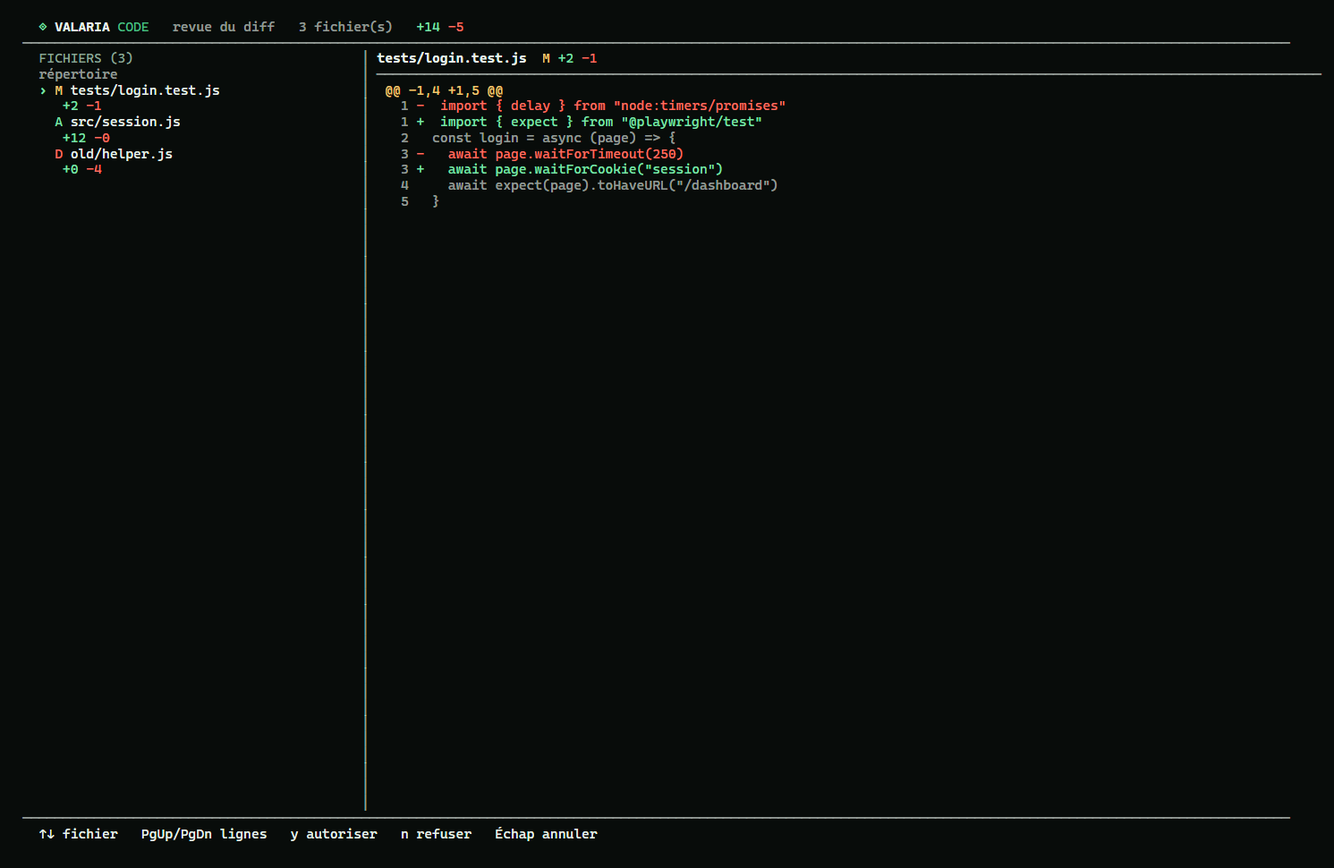
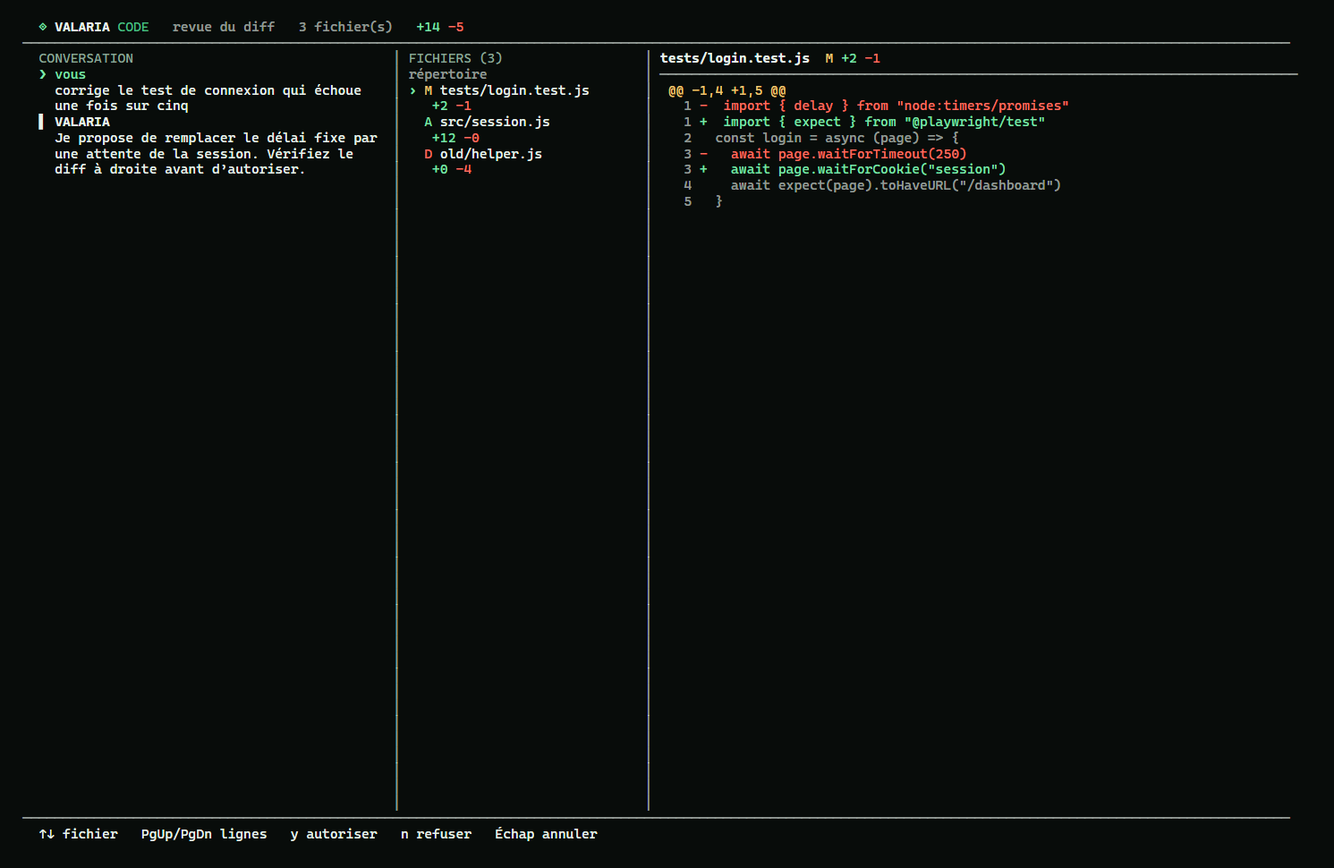
style(valaria-code): conversation visible pendant la revue de diff

Changed region(s): [[0.0309, 0.0619, 0.8021, 0.2474]]

diff --git a/docs/valaria-code-preview/diff-review-studio.html b/docs/valaria-code-preview/diff-review-studio.html
@@ -9,53 +9,53 @@
         color:#e8f3ec; background:#080c0a; white-space:pre; }
 </style></head><body><pre>  <span style="color:rgb(127,227,170)">◈</span> <span style="font-weight:700">VALARIA</span> <span style="color:rgb(72,189,130)">CODE</span>   <span style="opacity:.62">revue du diff</span>   <span style="opacity:.62">3 fichier(s)</span>   <span style="color:rgb(127,227,170)">+14</span> <span style="color:rgb(255,111,97)">−5</span>
 <span style="opacity:.62">─────────────────────────────────────────────────────────────────────────────────────────────────────────────────────────────────────────────────────────────────</span>
-  <span style="color:rgb(140,166,152)">COMPTE</span>                 <span style="opacity:.62">│</span> <span style="color:rgb(140,166,152)">FICHIERS (3)</span>                   <span style="opacity:.62">│</span> <span style="font-weight:700">tests/login.test.js</span>  <span style="color:rgb(240,198,116)">M</span> <span style="color:rgb(127,227,170)">+2</span> <span style="color:rgb(255,111,97)">−1</span>
-   <span style="font-weight:700">sossoukassim</span>          <span style="opacity:.62">│</span> <span style="opacity:.62">répertoire</span>                     <span style="opacity:.62">│</span> <span style="opacity:.62">─────────────────────────────────────────────────────────────────────────────────────────────────────────</span>
-   <span style="opacity:.62">pass Essai</span>            <span style="opacity:.62">│</span> <span style="color:rgb(127,227,170);font-weight:700">›</span> <span style="color:rgb(240,198,116)">M</span> tests/login.test.js        <span style="opacity:.62">│</span>  <span style="color:rgb(240,198,116)">@@ -1,4 +1,5 @@</span>
-                         <span style="opacity:.62">│</span>    <span style="color:rgb(127,227,170)">+2</span> <span style="color:rgb(255,111,97)">−1</span>                       <span style="opacity:.62">│</span> <span style="opacity:.62">   1</span> <span style="color:rgb(255,111,97)">−</span> <span style="color:rgb(255,111,97)"> import { delay } from "node:timers/promises"</span>
-  <span style="color:rgb(140,166,152)">REQUÊTES</span>               <span style="opacity:.62">│</span>   <span style="color:rgb(127,227,170)">A</span> src/session.js             <span style="opacity:.62">│</span> <span style="opacity:.62">   1</span> <span style="color:rgb(127,227,170)">+</span> <span style="color:rgb(127,227,170)"> import { expect } from "@playwright/test"</span>
-   <span style="color:rgb(93,135,105)">∞</span>                     <span style="opacity:.62">│</span>    <span style="color:rgb(127,227,170)">+12</span> <span style="color:rgb(255,111,97)">−0</span>                      <span style="opacity:.62">│</span> <span style="opacity:.62">   2</span>   <span style="opacity:.62">const login = async (page) =&gt; {</span>
-   <span style="opacity:.62">4 / ∞</span>                 <span style="opacity:.62">│</span>   <span style="color:rgb(255,111,97)">D</span> old/helper.js              <span style="opacity:.62">│</span> <span style="opacity:.62">   3</span> <span style="color:rgb(255,111,97)">−</span> <span style="color:rgb(255,111,97)">  await page.waitForTimeout(250)</span>
-                         <span style="opacity:.62">│</span>    <span style="color:rgb(127,227,170)">+0</span> <span style="color:rgb(255,111,97)">−4</span>                       <span style="opacity:.62">│</span> <span style="opacity:.62">   3</span> <span style="color:rgb(127,227,170)">+</span> <span style="color:rgb(127,227,170)">  await page.waitForCookie("session")</span>
-  <span style="color:rgb(140,166,152)">CRÉDIT</span>                 <span style="opacity:.62">│</span>                                <span style="opacity:.62">│</span> <span style="opacity:.62">   4</span>   <span style="opacity:.62">  await expect(page).toHaveURL("/dashboard")</span>
-   <span style="color:rgb(29,59,40)">░░░░░░░░░░░░</span>          <span style="opacity:.62">│</span>                                <span style="opacity:.62">│</span> <span style="opacity:.62">   5</span>   <span style="opacity:.62">}</span>
-   <span style="opacity:.62">0,04 $ / 1,13 $</span>       <span style="opacity:.62">│</span>                                <span style="opacity:.62">│</span> 
-                         <span style="opacity:.62">│</span>                                <span style="opacity:.62">│</span> 
-  <span style="color:rgb(140,166,152)">PASS</span>                   <span style="opacity:.62">│</span>                                <span style="opacity:.62">│</span> 
-   7 j                   <span style="opacity:.62">│</span>                                <span style="opacity:.62">│</span> 
-                         <span style="opacity:.62">│</span>                                <span style="opacity:.62">│</span> 
-  <span style="color:rgb(140,166,152)">MODÈLE</span>                 <span style="opacity:.62">│</span>                                <span style="opacity:.62">│</span> 
-   <span style="color:rgb(240,198,116)">claude-opus-5.5</span>       <span style="opacity:.62">│</span>                                <span style="opacity:.62">│</span> 
-  <span style="color:rgb(140,166,152)">MODE</span>                   <span style="opacity:.62">│</span>                                <span style="opacity:.62">│</span> 
-   agent                 <span style="opacity:.62">│</span>                                <span style="opacity:.62">│</span> 
-                         <span style="opacity:.62">│</span>                                <span style="opacity:.62">│</span> 
-                         <span style="opacity:.62">│</span>                                <span style="opacity:.62">│</span> 
-                         <span style="opacity:.62">│</span>                                <span style="opacity:.62">│</span> 
-                         <span style="opacity:.62">│</span>                                <span style="opacity:.62">│</span> 
-                         <span style="opacity:.62">│</span>                                <span style="opacity:.62">│</span> 
-                         <span style="opacity:.62">│</span>                                <span style="opacity:.62">│</span> 
-                         <span style="opacity:.62">│</span>                                <span style="opacity:.62">│</span> 
-                         <span style="opacity:.62">│</span>                                <span style="opacity:.62">│</span> 
-                         <span style="opacity:.62">│</span>                                <span style="opacity:.62">│</span> 
-                         <span style="opacity:.62">│</span>                                <span style="opacity:.62">│</span> 
-                         <span style="opacity:.62">│</span>                                <span style="opacity:.62">│</span> 
-                         <span style="opacity:.62">│</span>                                <span style="opacity:.62">│</span> 
-                         <span style="opacity:.62">│</span>                                <span style="opacity:.62">│</span> 
-                         <span style="opacity:.62">│</span>                                <span style="opacity:.62">│</span> 
-                         <span style="opacity:.62">│</span>                                <span style="opacity:.62">│</span> 
-                         <span style="opacity:.62">│</span>                                <span style="opacity:.62">│</span> 
-                         <span style="opacity:.62">│</span>                                <span style="opacity:.62">│</span> 
-                         <span style="opacity:.62">│</span>                                <span style="opacity:.62">│</span> 
-                         <span style="opacity:.62">│</span>                                <span style="opacity:.62">│</span> 
-                         <span style="opacity:.62">│</span>                                <span style="opacity:.62">│</span> 
-                         <span style="opacity:.62">│</span>                                <span style="opacity:.62">│</span> 
-                         <span style="opacity:.62">│</span>                                <span style="opacity:.62">│</span> 
-                         <span style="opacity:.62">│</span>                                <span style="opacity:.62">│</span> 
-                         <span style="opacity:.62">│</span>                                <span style="opacity:.62">│</span> 
-                         <span style="opacity:.62">│</span>                                <span style="opacity:.62">│</span> 
-                         <span style="opacity:.62">│</span>                                <span style="opacity:.62">│</span> 
-                         <span style="opacity:.62">│</span>                                <span style="opacity:.62">│</span> 
-                         <span style="opacity:.62">│</span>                                <span style="opacity:.62">│</span> 
-                         <span style="opacity:.62">│</span>                                <span style="opacity:.62">│</span> 
+  <span style="color:rgb(140,166,152)">COMPTE</span>                 <span style="opacity:.62">│</span> <span style="color:rgb(140,166,152)">CONVERSATION</span>                                 <span style="opacity:.62">│</span> <span style="color:rgb(140,166,152)">FICHIERS (3)</span>                  <span style="opacity:.62">│</span> <span style="font-weight:700">tests/login.test.js</span>  <span style="color:rgb(240,198,116)">M</span> <span style="color:rgb(127,227,170)">+2</span> <span style="color:rgb(255,111,97)">−1</span>
+   <span style="font-weight:700">sossoukassim</span>          <span style="opacity:.62">│</span> <span style="color:rgb(127,227,170)">❯ vous</span>                                       <span style="opacity:.62">│</span> <span style="opacity:.62">répertoire</span>                    <span style="opacity:.62">│</span> <span style="opacity:.62">────────────────────────────────────────────────────────</span>
+   <span style="opacity:.62">pass Essai</span>            <span style="opacity:.62">│</span>   corrige le test de connexion qui échoue    <span style="opacity:.62">│</span> <span style="color:rgb(127,227,170);font-weight:700">›</span> <span style="color:rgb(240,198,116)">M</span> tests/login.test.js       <span style="opacity:.62">│</span>  <span style="color:rgb(240,198,116)">@@ -1,4 +1,5 @@</span>
+                         <span style="opacity:.62">│</span>   une fois sur cinq                          <span style="opacity:.62">│</span>    <span style="color:rgb(127,227,170)">+2</span> <span style="color:rgb(255,111,97)">−1</span>                      <span style="opacity:.62">│</span> <span style="opacity:.62">   1</span> <span style="color:rgb(255,111,97)">−</span> <span style="color:rgb(255,111,97)"> import { delay } from "node:timers/promises"</span>
+  <span style="color:rgb(140,166,152)">REQUÊTES</span>               <span style="opacity:.62">│</span> <span style="font-weight:700">▌ VALARIA</span>                                    <span style="opacity:.62">│</span>   <span style="color:rgb(127,227,170)">A</span> src/session.js            <span style="opacity:.62">│</span> <span style="opacity:.62">   1</span> <span style="color:rgb(127,227,170)">+</span> <span style="color:rgb(127,227,170)"> import { expect } from "@playwright/test"</span>
+   <span style="color:rgb(93,135,105)">∞</span>                     <span style="opacity:.62">│</span>   Je propose de remplacer le délai fixe par  <span style="opacity:.62">│</span>    <span style="color:rgb(127,227,170)">+12</span> <span style="color:rgb(255,111,97)">−0</span>                     <span style="opacity:.62">│</span> <span style="opacity:.62">   2</span>   <span style="opacity:.62">const login = async (page) =&gt; {</span>
+   <span style="opacity:.62">4 / ∞</span>                 <span style="opacity:.62">│</span>   une attente de la session. Vérifiez le     <span style="opacity:.62">│</span>   <span style="color:rgb(255,111,97)">D</span> old/helper.js             <span style="opacity:.62">│</span> <span style="opacity:.62">   3</span> <span style="color:rgb(255,111,97)">−</span> <span style="color:rgb(255,111,97)">  await page.waitForTimeout(250)</span>
+                         <span style="opacity:.62">│</span>   diff à droite avant d’autoriser.           <span style="opacity:.62">│</span>    <span style="color:rgb(127,227,170)">+0</span> <span style="color:rgb(255,111,97)">−4</span>                      <span style="opacity:.62">│</span> <span style="opacity:.62">   3</span> <span style="color:rgb(127,227,170)">+</span> <span style="color:rgb(127,227,170)">  await page.waitForCookie("session")</span>
+  <span style="color:rgb(140,166,152)">CRÉDIT</span>                 <span style="opacity:.62">│</span>                                              <span style="opacity:.62">│</span>                               <span style="opacity:.62">│</span> <span style="opacity:.62">   4</span>   <span style="opacity:.62">  await expect(page).toHaveURL("/dashboard")</span>
+   <span style="color:rgb(29,59,40)">░░░░░░░░░░░░</span>          <span style="opacity:.62">│</span>                                              <span style="opacity:.62">│</span>                               <span style="opacity:.62">│</span> <span style="opacity:.62">   5</span>   <span style="opacity:.62">}</span>
+   <span style="opacity:.62">0,04 $ / 1,13 $</span>       <span style="opacity:.62">│</span>                                              <span style="opacity:.62">│</span>                               <span style="opacity:.62">│</span> 
+                         <span style="opacity:.62">│</span>                                              <span style="opacity:.62">│</span>                               <span style="opacity:.62">│</span> 
+  <span style="color:rgb(140,166,152)">PASS</span>                   <span style="opacity:.62">│</span>                                              <span style="opacity:.62">│</span>                               <span style="opacity:.62">│</span> 
+   7 j                   <span style="opacity:.62">│</span>                                              <span style="opacity:.62">│</span>                               <span style="opacity:.62">│</span> 
+                         <span style="opacity:.62">│</span>                                              <span style="opacity:.62">│</span>                               <span style="opacity:.62">│</span> 
+  <span style="color:rgb(140,166,152)">MODÈLE</span>                 <span style="opacity:.62">│</span>                                              <span style="opacity:.62">│</span>                               <span style="opacity:.62">│</span> 
+   <span style="color:rgb(240,198,116)">claude-opus-5.5</span>       <span style="opacity:.62">│</span>                                              <span style="opacity:.62">│</span>                               <span style="opacity:.62">│</span> 
+  <span style="color:rgb(140,166,152)">MODE</span>                   <span style="opacity:.62">│</span>                                              <span style="opacity:.62">│</span>                               <span style="opacity:.62">│</span> 
+   agent                 <span style="opacity:.62">│</span>                                              <span style="opacity:.62">│</span>                               <span style="opacity:.62">│</span> 
+                         <span style="opacity:.62">│</span>                                              <span style="opacity:.62">│</span>                               <span style="opacity:.62">│</span> 
+                         <span style="opacity:.62">│</span>                                              <span style="opacity:.62">│</span>                               <span style="opacity:.62">│</span> 
+                         <span style="opacity:.62">│</span>                                              <span style="opacity:.62">│</span>                               <span style="opacity:.62">│</span> 
+                         <span style="opacity:.62">│</span>                                              <span style="opacity:.62">│</span>                               <span style="opacity:.62">│</span> 
+                         <span style="opacity:.62">│</span>                                              <span style="opacity:.62">│</span>                               <span style="opacity:.62">│</span> 
+                         <span style="opacity:.62">│</span>                                              <span style="opacity:.62">│</span>                               <span style="opacity:.62">│</span> 
+                         <span style="opacity:.62">│</span>                                              <span style="opacity:.62">│</span>                               <span style="opacity:.62">│</span> 
+                         <span style="opacity:.62">│</span>                                              <span style="opacity:.62">│</span>                               <span style="opacity:.62">│</span> 
+                         <span style="opacity:.62">│</span>                                              <span style="opacity:.62">│</span>                               <span style="opacity:.62">│</span> 
+                         <span style="opacity:.62">│</span>                                              <span style="opacity:.62">│</span>                               <span style="opacity:.62">│</span> 
+                         <span style="opacity:.62">│</span>                                              <span style="opacity:.62">│</span>                               <span style="opacity:.62">│</span> 
+                         <span style="opacity:.62">│</span>                                              <span style="opacity:.62">│</span>                               <span style="opacity:.62">│</span> 
+                         <span style="opacity:.62">│</span>                                              <span style="opacity:.62">│</span>                               <span style="opacity:.62">│</span> 
+                         <span style="opacity:.62">│</span>                                              <span style="opacity:.62">│</span>                               <span style="opacity:.62">│</span> 
+                         <span style="opacity:.62">│</span>                                              <span style="opacity:.62">│</span>                               <span style="opacity:.62">│</span> 
+                         <span style="opacity:.62">│</span>                                              <span style="opacity:.62">│</span>                               <span style="opacity:.62">│</span> 
+                         <span style="opacity:.62">│</span>                                              <span style="opacity:.62">│</span>                               <span style="opacity:.62">│</span> 
+                         <span style="opacity:.62">│</span>                                              <span style="opacity:.62">│</span>                               <span style="opacity:.62">│</span> 
+                         <span style="opacity:.62">│</span>                                              <span style="opacity:.62">│</span>                               <span style="opacity:.62">│</span> 
+                         <span style="opacity:.62">│</span>                                              <span style="opacity:.62">│</span>                               <span style="opacity:.62">│</span> 
+                         <span style="opacity:.62">│</span>                                              <span style="opacity:.62">│</span>                               <span style="opacity:.62">│</span> 
+                         <span style="opacity:.62">│</span>                                              <span style="opacity:.62">│</span>                               <span style="opacity:.62">│</span> 
+                         <span style="opacity:.62">│</span>                                              <span style="opacity:.62">│</span>                               <span style="opacity:.62">│</span> 
+                         <span style="opacity:.62">│</span>                                              <span style="opacity:.62">│</span>                               <span style="opacity:.62">│</span> 
+                         <span style="opacity:.62">│</span>                                              <span style="opacity:.62">│</span>                               <span style="opacity:.62">│</span> 
+                         <span style="opacity:.62">│</span>                                              <span style="opacity:.62">│</span>                               <span style="opacity:.62">│</span> 
+                         <span style="opacity:.62">│</span>                                              <span style="opacity:.62">│</span>                               <span style="opacity:.62">│</span> 
+                         <span style="opacity:.62">│</span>                                              <span style="opacity:.62">│</span>                               <span style="opacity:.62">│</span> 
+                         <span style="opacity:.62">│</span>                                              <span style="opacity:.62">│</span>                               <span style="opacity:.62">│</span> 
 <span style="opacity:.62">─────────────────────────────────────────────────────────────────────────────────────────────────────────────────────────────────────────────────────────────────</span>
   ↑↓ fichier   PgUp/PgDn lignes   y autoriser   n refuser   Échap annuler</pre></body></html>

diff --git a/docs/valaria-code-preview/diff-review.html b/docs/valaria-code-preview/diff-review.html
@@ -9,53 +9,53 @@
         color:#e8f3ec; background:#080c0a; white-space:pre; }
 </style></head><body><pre>  <span style="color:rgb(127,227,170)">◈</span> <span style="font-weight:700">VALARIA</span> <span style="color:rgb(72,189,130)">CODE</span>   <span style="opacity:.62">revue du diff</span>   <span style="opacity:.62">3 fichier(s)</span>   <span style="color:rgb(127,227,170)">+14</span> <span style="color:rgb(255,111,97)">−5</span>
 <span style="opacity:.62">─────────────────────────────────────────────────────────────────────────────────────────────────────────────────────────────────────────────────────────────────</span>
-  <span style="color:rgb(140,166,152)">FICHIERS (3)</span>                             <span style="opacity:.62">│</span> <span style="font-weight:700">tests/login.test.js</span>  <span style="color:rgb(240,198,116)">M</span> <span style="color:rgb(127,227,170)">+2</span> <span style="color:rgb(255,111,97)">−1</span>
-  <span style="opacity:.62">répertoire</span>                               <span style="opacity:.62">│</span> <span style="opacity:.62">────────────────────────────────────────────────────────────────────────────────────────────────────────────────────────</span>
-  <span style="color:rgb(127,227,170);font-weight:700">›</span> <span style="color:rgb(240,198,116)">M</span> tests/login.test.js                  <span style="opacity:.62">│</span>  <span style="color:rgb(240,198,116)">@@ -1,4 +1,5 @@</span>
-     <span style="color:rgb(127,227,170)">+2</span> <span style="color:rgb(255,111,97)">−1</span>                                 <span style="opacity:.62">│</span> <span style="opacity:.62">   1</span> <span style="color:rgb(255,111,97)">−</span> <span style="color:rgb(255,111,97)"> import { delay } from "node:timers/promises"</span>
-    <span style="color:rgb(127,227,170)">A</span> src/session.js                       <span style="opacity:.62">│</span> <span style="opacity:.62">   1</span> <span style="color:rgb(127,227,170)">+</span> <span style="color:rgb(127,227,170)"> import { expect } from "@playwright/test"</span>
-     <span style="color:rgb(127,227,170)">+12</span> <span style="color:rgb(255,111,97)">−0</span>                                <span style="opacity:.62">│</span> <span style="opacity:.62">   2</span>   <span style="opacity:.62">const login = async (page) =&gt; {</span>
-    <span style="color:rgb(255,111,97)">D</span> old/helper.js                        <span style="opacity:.62">│</span> <span style="opacity:.62">   3</span> <span style="color:rgb(255,111,97)">−</span> <span style="color:rgb(255,111,97)">  await page.waitForTimeout(250)</span>
-     <span style="color:rgb(127,227,170)">+0</span> <span style="color:rgb(255,111,97)">−4</span>                                 <span style="opacity:.62">│</span> <span style="opacity:.62">   3</span> <span style="color:rgb(127,227,170)">+</span> <span style="color:rgb(127,227,170)">  await page.waitForCookie("session")</span>
-                                           <span style="opacity:.62">│</span> <span style="opacity:.62">   4</span>   <span style="opacity:.62">  await expect(page).toHaveURL("/dashboard")</span>
-                                           <span style="opacity:.62">│</span> <span style="opacity:.62">   5</span>   <span style="opacity:.62">}</span>
-                                           <span style="opacity:.62">│</span> 
-                                           <span style="opacity:.62">│</span> 
-                                           <span style="opacity:.62">│</span> 
-                                           <span style="opacity:.62">│</span> 
-                                           <span style="opacity:.62">│</span> 
-                                           <span style="opacity:.62">│</span> 
-                                           <span style="opacity:.62">│</span> 
-                                           <span style="opacity:.62">│</span> 
-                                           <span style="opacity:.62">│</span> 
-                                           <span style="opacity:.62">│</span> 
-                                           <span style="opacity:.62">│</span> 
-                                           <span style="opacity:.62">│</span> 
-                                           <span style="opacity:.62">│</span> 
-                                           <span style="opacity:.62">│</span> 
-                                           <span style="opacity:.62">│</span> 
-                                           <span style="opacity:.62">│</span> 
-                                           <span style="opacity:.62">│</span> 
-                                           <span style="opacity:.62">│</span> 
-                                           <span style="opacity:.62">│</span> 
-                                           <span style="opacity:.62">│</span> 
-                                           <span style="opacity:.62">│</span> 
-                                           <span style="opacity:.62">│</span> 
-                                           <span style="opacity:.62">│</span> 
-                                           <span style="opacity:.62">│</span> 
-                                           <span style="opacity:.62">│</span> 
-                                           <span style="opacity:.62">│</span> 
-                                           <span style="opacity:.62">│</span> 
-                                           <span style="opacity:.62">│</span> 
-                                           <span style="opacity:.62">│</span> 
-                                           <span style="opacity:.62">│</span> 
-                                           <span style="opacity:.62">│</span> 
-                                           <span style="opacity:.62">│</span> 
-                                           <span style="opacity:.62">│</span> 
-                                           <span style="opacity:.62">│</span> 
-                                           <span style="opacity:.62">│</span> 
-                                           <span style="opacity:.62">│</span> 
-                                           <span style="opacity:.62">│</span> 
-                                           <span style="opacity:.62">│</span> 
+  <span style="color:rgb(140,166,152)">CONVERSATION</span>                                 <span style="opacity:.62">│</span> <span style="color:rgb(140,166,152)">FICHIERS (3)</span>                  <span style="opacity:.62">│</span> <span style="font-weight:700">tests/login.test.js</span>  <span style="color:rgb(240,198,116)">M</span> <span style="color:rgb(127,227,170)">+2</span> <span style="color:rgb(255,111,97)">−1</span>
+  <span style="color:rgb(127,227,170)">❯ vous</span>                                       <span style="opacity:.62">│</span> <span style="opacity:.62">répertoire</span>                    <span style="opacity:.62">│</span> <span style="opacity:.62">─────────────────────────────────────────────────────────────────────────────────</span>
+    corrige le test de connexion qui échoue    <span style="opacity:.62">│</span> <span style="color:rgb(127,227,170);font-weight:700">›</span> <span style="color:rgb(240,198,116)">M</span> tests/login.test.js       <span style="opacity:.62">│</span>  <span style="color:rgb(240,198,116)">@@ -1,4 +1,5 @@</span>
+    une fois sur cinq                          <span style="opacity:.62">│</span>    <span style="color:rgb(127,227,170)">+2</span> <span style="color:rgb(255,111,97)">−1</span>                      <span style="opacity:.62">│</span> <span style="opacity:.62">   1</span> <span style="color:rgb(255,111,97)">−</span> <span style="color:rgb(255,111,97)"> import { delay } from "node:timers/promises"</span>
+  <span style="font-weight:700">▌ VALARIA</span>                                    <span style="opacity:.62">│</span>   <span style="color:rgb(127,227,170)">A</span> src/session.js            <span style="opacity:.62">│</span> <span style="opacity:.62">   1</span> <span style="color:rgb(127,227,170)">+</span> <span style="color:rgb(127,227,170)"> import { expect } from "@playwright/test"</span>
+    Je propose de remplacer le délai fixe par  <span style="opacity:.62">│</span>    <span style="color:rgb(127,227,170)">+12</span> <span style="color:rgb(255,111,97)">−0</span>                     <span style="opacity:.62">│</span> <span style="opacity:.62">   2</span>   <span style="opacity:.62">const login = async (page) =&gt; {</span>
+    une attente de la session. Vérifiez le     <span style="opacity:.62">│</span>   <span style="color:rgb(255,111,97)">D</span> old/helper.js             <span style="opacity:.62">│</span> <span style="opacity:.62">   3</span> <span style="color:rgb(255,111,97)">−</span> <span style="color:rgb(255,111,97)">  await page.waitForTimeout(250)</span>
+    diff à droite avant d’autoriser.           <span style="opacity:.62">│</span>    <span style="color:rgb(127,227,170)">+0</span> <span style="color:rgb(255,111,97)">−4</span>                      <span style="opacity:.62">│</span> <span style="opacity:.62">   3</span> <span style="color:rgb(127,227,170)">+</span> <span style="color:rgb(127,227,170)">  await page.waitForCookie("session")</span>
+                                               <span style="opacity:.62">│</span>                               <span style="opacity:.62">│</span> <span style="opacity:.62">   4</span>   <span style="opacity:.62">  await expect(page).toHaveURL("/dashboard")</span>
+                                               <span style="opacity:.62">│</span>                               <span style="opacity:.62">│</span> <span style="opacity:.62">   5</span>   <span style="opacity:.62">}</span>
+                                               <span style="opacity:.62">│</span>                               <span style="opacity:.62">│</span> 
+                                               <span style="opacity:.62">│</span>                               <span style="opacity:.62">│</span> 
+                                               <span style="opacity:.62">│</span>                               <span style="opacity:.62">│</span> 
+                                               <span style="opacity:.62">│</span>                               <span style="opacity:.62">│</span> 
+                                               <span style="opacity:.62">│</span>                               <span style="opacity:.62">│</span> 
+                                               <span style="opacity:.62">│</span>                               <span style="opacity:.62">│</span> 
+                                               <span style="opacity:.62">│</span>                               <span style="opacity:.62">│</span> 
+                                               <span style="opacity:.62">│</span>                               <span style="opacity:.62">│</span> 
+                                               <span style="opacity:.62">│</span>                               <span style="opacity:.62">│</span> 
+                                               <span style="opacity:.62">│</span>                               <span style="opacity:.62">│</span> 
+                                               <span style="opacity:.62">│</span>                               <span style="opacity:.62">│</span> 
+                                               <span style="opacity:.62">│</span>                               <span style="opacity:.62">│</span> 
+                                               <span style="opacity:.62">│</span>                               <span style="opacity:.62">│</span> 
+                                               <span style="opacity:.62">│</span>                               <span style="opacity:.62">│</span> 
+                                               <span style="opacity:.62">│</span>                               <span style="opacity:.62">│</span> 
+                                               <span style="opacity:.62">│</span>                               <span style="opacity:.62">│</span> 
+                                               <span style="opacity:.62">│</span>                               <span style="opacity:.62">│</span> 
+                                               <span style="opacity:.62">│</span>                               <span style="opacity:.62">│</span> 
+                                               <span style="opacity:.62">│</span>                               <span style="opacity:.62">│</span> 
+                                               <span style="opacity:.62">│</span>                               <span style="opacity:.62">│</span> 
+                                               <span style="opacity:.62">│</span>                               <span style="opacity:.62">│</span> 
+                                               <span style="opacity:.62">│</span>                               <span style="opacity:.62">│</span> 
+                                               <span style="opacity:.62">│</span>                               <span style="opacity:.62">│</span> 
+                                               <span style="opacity:.62">│</span>                               <span style="opacity:.62">│</span> 
+                                               <span style="opacity:.62">│</span>                               <span style="opacity:.62">│</span> 
+                                               <span style="opacity:.62">│</span>                               <span style="opacity:.62">│</span> 
+                                               <span style="opacity:.62">│</span>                               <span style="opacity:.62">│</span> 
+                                               <span style="opacity:.62">│</span>                               <span style="opacity:.62">│</span> 
+                                               <span style="opacity:.62">│</span>                               <span style="opacity:.62">│</span> 
+                                               <span style="opacity:.62">│</span>                               <span style="opacity:.62">│</span> 
+                                               <span style="opacity:.62">│</span>                               <span style="opacity:.62">│</span> 
+                                               <span style="opacity:.62">│</span>                               <span style="opacity:.62">│</span> 
+                                               <span style="opacity:.62">│</span>                               <span style="opacity:.62">│</span> 
+                                               <span style="opacity:.62">│</span>                               <span style="opacity:.62">│</span> 
+                                               <span style="opacity:.62">│</span>                               <span style="opacity:.62">│</span> 
+                                               <span style="opacity:.62">│</span>                               <span style="opacity:.62">│</span> 
+                                               <span style="opacity:.62">│</span>                               <span style="opacity:.62">│</span> 
+                                               <span style="opacity:.62">│</span>                               <span style="opacity:.62">│</span> 
 <span style="opacity:.62">─────────────────────────────────────────────────────────────────────────────────────────────────────────────────────────────────────────────────────────────────</span>
   ↑↓ fichier   PgUp/PgDn lignes   y autoriser   n refuser   Échap annuler</pre></body></html>

diff --git a/packages/valaria-code/src/tui.js b/packages/valaria-code/src/tui.js
@@ -888,10 +888,13 @@ function renderDiffOverlay(state, { color = true, cols = 96, rows = 28 } = {}) {
     ? '  ↑↓ fichier   PgUp/PgDn lignes   y autoriser   n refuser   Échap annuler'
     : '  ↑↓ fichier   PgUp/PgDn lignes   Échap fermer';
   const bodyHeight = Math.max(6, rows - 4);
-  const showAccount = state.layout === 'studio' && cols >= 118;
+  const showAccount = state.layout === 'studio' && cols >= 136;
   const accountWidth = 22;
-  const filesWidth = showAccount ? 30 : Math.max(26, Math.min(40, Math.floor(cols * 0.34)));
-  const diffWidth = Math.max(28, cols - 2 - filesWidth - 3 - (showAccount ? accountWidth + 3 : 0));
+  const conversationWidth = Math.max(28, Math.min(44, Math.floor(cols * 0.27)));
+  const filesWidth = Math.max(20, Math.min(32, Math.floor(cols * 0.18)));
+  const separators = showAccount ? 12 : 9;
+  const diffWidth = Math.max(24, cols - 2 - conversationWidth - filesWidth - separators - (showAccount ? accountWidth : 0));
+
   const accountLines = [];
   if (showAccount) {
     const account = state.account || null;
@@ -928,6 +931,20 @@ function renderDiffOverlay(state, { color = true, cols = 96, rows = 28 } = {}) {
     accountLines.push(c('MODE', COLORS.muted));
     accountLines.push(` ${state.mode === 'chat' ? 'conversation' : 'agent'}`);
   }
+
+  const conversationLines = [c('CONVERSATION', COLORS.muted)];
+  const recent = [];
+  for (const message of state.messages) {
+    if (message.role === 'tool') {
+      recent.push(`${c('›', COLORS.accent)} ${truncate(message.content || '', conversationWidth - 2)}`);
+      continue;
+    }
+    const label = message.role === 'user' ? c('❯ vous', COLORS.accent) : message.role === 'assistant' ? b('▌ VALARIA') : d('· système');
+    recent.push(label);
+    for (const line of wrap(message.content || '', Math.max(16, conversationWidth - 2))) recent.push(`  ${line}`);
+  }
+  if (!recent.length) recent.push(d('  Aucun message — décrivez une tâche.'), '', d('  Les messages restent visibles'), d('  pendant la revue du diff.'));
+  conversationLines.push(...recent.slice(-(bodyHeight - 2)));
 
   const fileLines = [];
   fileLines.push(c(`FICHIERS (${files.length})`, COLORS.muted));
@@ -990,15 +1007,12 @@ function renderDiffOverlay(state, { color = true, cols = 96, rows = 28 } = {}) {
   lines.push(header);
   lines.push(d('─'.repeat(Math.max(0, cols - 4))));
   for (let index = 0; index < bodyHeight; index += 1) {
-    const diffLine = truncate(diffLines[index] || '', diffWidth);
-    if (showAccount) {
-      const accountLine = pad(truncate(accountLines[index] || '', accountWidth), accountWidth);
-      const fileLine = pad(truncate(fileLines[index] || '', filesWidth), filesWidth);
-      lines.push(`  ${accountLine} ${d('│')} ${fileLine} ${d('│')} ${diffLine}`);
-    } else {
-      const fileLine = pad(truncate(fileLines[index] || '', filesWidth), filesWidth);
-      lines.push(`  ${fileLine} ${d('│')} ${diffLine}`);
-    }
+    const parts = [];
+    if (showAccount) parts.push(pad(truncate(accountLines[index] || '', accountWidth), accountWidth));
+    parts.push(pad(truncate(conversationLines[index] || '', conversationWidth), conversationWidth));
+    parts.push(pad(truncate(fileLines[index] || '', filesWidth), filesWidth));
+    parts.push(truncate(diffLines[index] || '', diffWidth));
+    lines.push(`  ${parts.join(` ${d('│')} `)}`);
   }
   lines.push(d('─'.repeat(Math.max(0, cols - 4))));
   lines.push(footer);
@@ -1009,6 +1023,7 @@ export async function runPlainChat({ client, messages, model, onDelta }) {
 }
 
 export const runTui = createTui;
+
 
 
 
